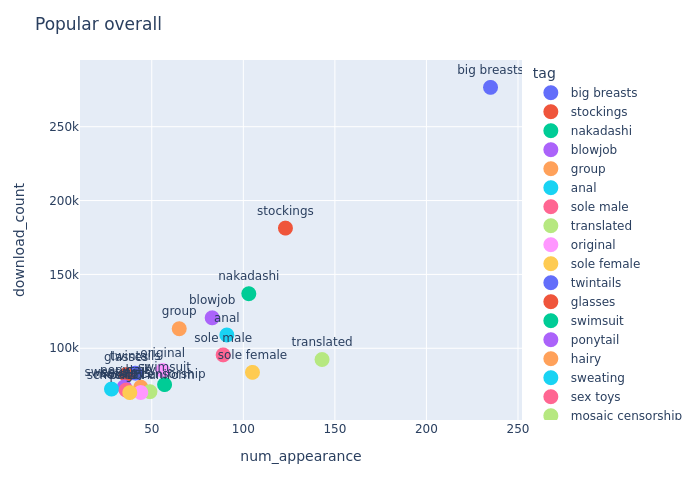
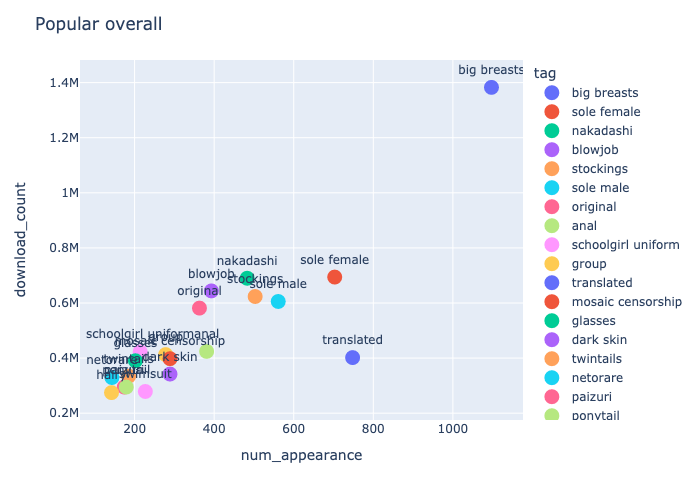
update plot, link and fix bug

diff --git a/main.py b/main.py
@@ -2,7 +2,7 @@ import util, plot
 
 #Replace with "my user agent". Type that in Google and copy the result
 headers = {
-    'User-Agent': 'Mozilla/5.0 (Linux; Android 10; K) AppleWebKit/537.36 (KHTML, like Gecko) Chrome/114.0.0.0 Mobile Safari/537.36'
+    'User-Agent': 'Mozilla/5.0 (Macintosh; Intel Mac OS X 10_15_7) AppleWebKit/537.36 (KHTML, like Gecko) Chrome/118.0.0.0 Safari/537.36'
 }
 
 util.headers = headers

diff --git a/readme.md b/readme.md
@@ -5,7 +5,7 @@ This script scrap the most recent n pages of posts with 4 star + rating on e-hen
 
 To prevent getting blocked by the website, change the headers in main.py. The script runs slow since it will sleep for some seconds after each request to e-hentai.org
 
-Some data gathered from E-hentai.org. Only galleries with 3 stars ratings are included. Link: https://mega.nz/file/bZZXCBgQ#vQwcgOto5_Z66GEl8LLmiZQjvWU8fSkicAnP59f2Mx0
+Some data gathered from E-hentai.org. Only galleries with 4 stars ratings are included. Link: https://mega.nz/file/GB5jUI7R#RIEKgVwIFFpc5lXv8t_tx5SBDipYdy0qubXXXSeQH8k
 
 Example plots:
 
